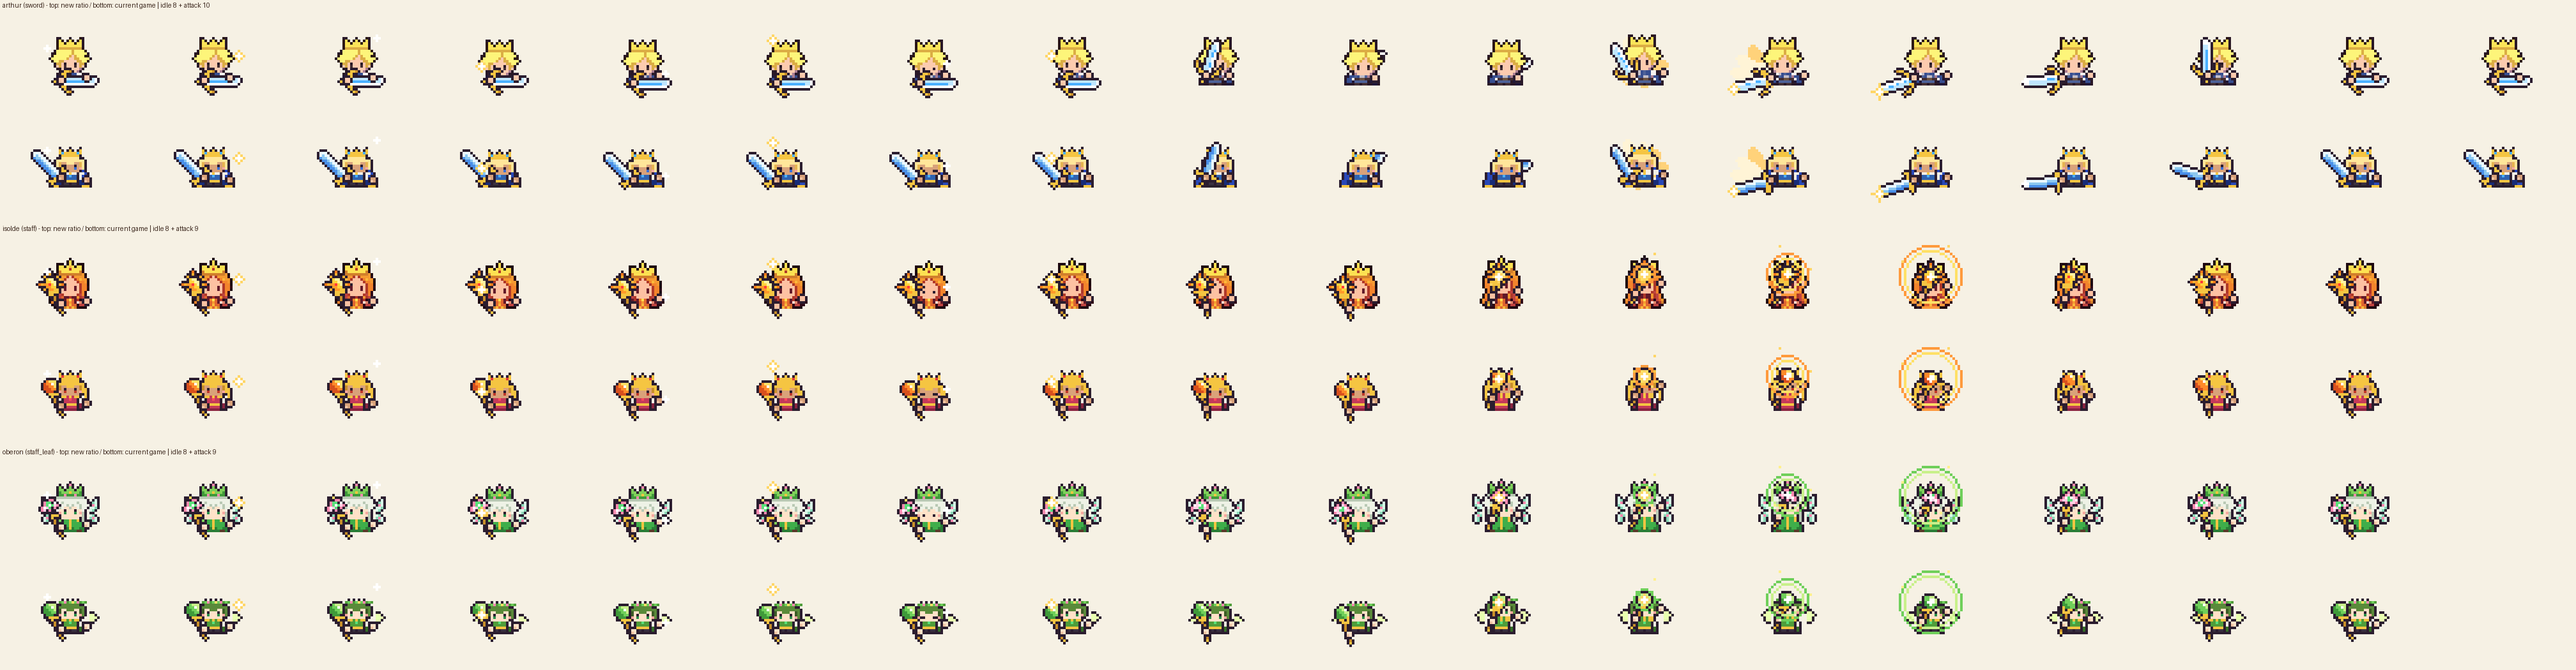
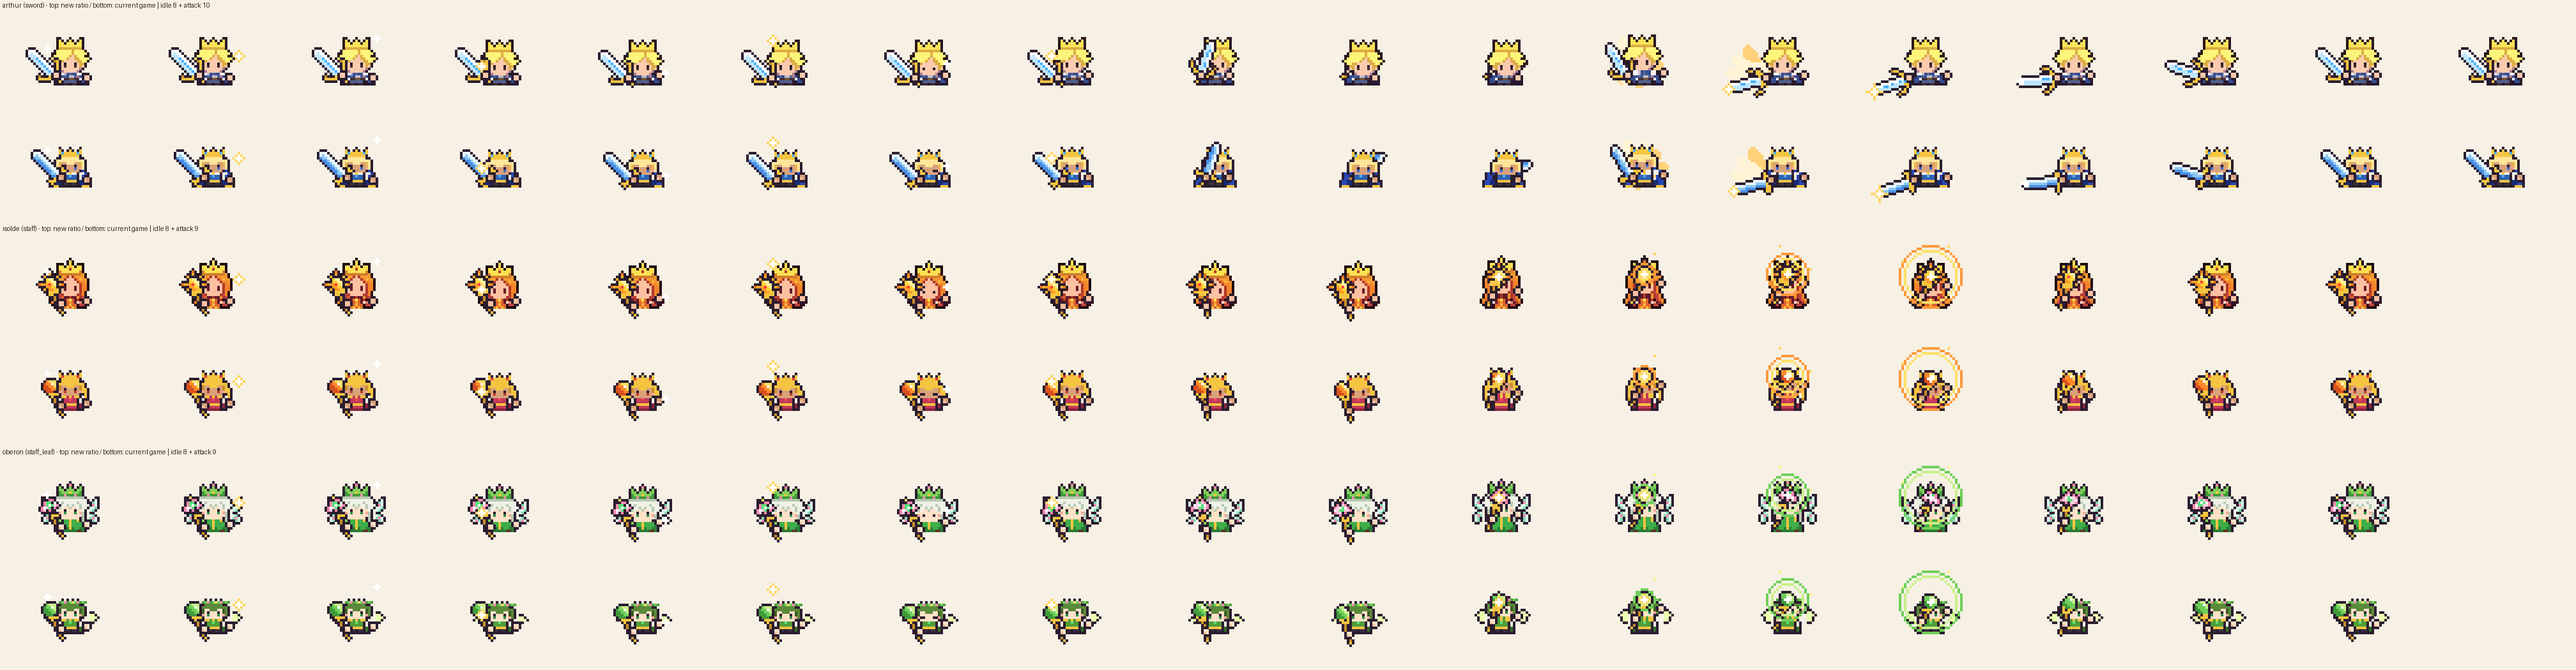
시험 아서: 가로 칼 자세 되돌리고 칼을 바깥쪽으로 2px
Claude-Session: https://claude.ai/code/session_01SZsqwLwV16mDzSvJa73xyD

diff --git a/docs/drafts/pixellab-rule-test/animate_tests.py b/docs/drafts/pixellab-rule-test/animate_tests.py
@@ -24,10 +24,8 @@ orig_body = R.body
 UNIQUE_WPN = {'arthur': 'excalibur', 'isolde': 'sun', 'oberon': 'fairy'}   # 캐릭터 전용 무기 (weapons_v2.py)
 _pick = R.W2.pick_variant
 R.W2.pick_variant = lambda w, look, g, cid: UNIQUE_WPN.get(cid) or _pick(w, look, g, cid)
-# 대기 때 무기 각도를 캐릭터마다 바꾸기 (2026-11-20 사용자 요청: 아서 = 몸 쪽으로 직각으로 눕혀 가로로 듦, 기본은 바깥 45°)
-IDLE_DEG = {'arthur': -90}
-IDLE_DY = {'arthur': 2}   # 가로로 든 칼이 턱·깃을 가리지 않게 손을 2px 내려 허리 높이로
-
+# 무기(쥐는 손)를 캐릭터 바깥쪽으로 옮기기 — 대기·공격 모두 (2026-11-20 사용자 요청: 아서 칼을 약간 바깥으로. 가로로 눕힌 시안은 되돌림)
+WPN_DX = {'arthur': 2}
 
 def run(cid):
     file, skin, female = TESTS[cid]
@@ -37,21 +35,15 @@ def run(cid):
     img.info = {'split': 19, 'eyes': [(9, 15), (13, 15)]}
     pal = {**pal, 'S': skin}
     R.body = lambda _c: (img, pal, 0, female, style)
-    oi, osw, first = A.idle, A.swing, []
-    if cid in IDLE_DEG:
-        deg = IDLE_DEG[cid]
-        def idle_fix(ch, w, hand, **kw):
-            fr = oi(ch, w, (hand[0], hand[1] + IDLE_DY.get(cid, 0)), **{**kw, 'deg': deg})
-            first.append(fr[0])
-            return fr
-        A.idle = idle_fix
-        A.swing = lambda ch, w, hand, idle_deg=0: osw(ch, w, hand, deg)
+    oi, osw = A.idle, A.swing
+    if cid in WPN_DX:   # 그림은 몸을 뒤집어 그린 뒤 다시 뒤집으므로 x 를 키우면 최종 그림에서 바깥(왼쪽)
+        dx = WPN_DX[cid]
+        A.idle = lambda ch, w, hand, **kw: oi(ch, w, (hand[0] + dx, hand[1]), **kw)
+        A.swing = lambda ch, w, hand, idle_deg=0: osw(ch, w, (hand[0] + dx, hand[1]), idle_deg)
     try:
         r = R.animate(c)
     finally:
         R.body, A.idle, A.swing = orig_body, oi, osw
-    if first:   # 공격 마지막 = 대기 자세 (swing 은 -30° 아래를 몸 뒤로 그리므로 대기 첫 프레임 그대로 씀)
-        r['attack'][-2:] = [(first[0][0], ms) for _, ms in r['attack'][-2:]]
     frames = r['idle'] + r['attack']
     R.sheet(frames).save(os.path.join(OUT, f'{cid}.png'))
     return r, frames

diff --git a/docs/drafts/pixellab-rule-test/README.md b/docs/drafts/pixellab-rule-test/README.md
@@ -31,4 +31,4 @@
   - 이졸데 `staff/sun`: 금빛 태양 원반 + 빛살 8개(십자 길게·대각선 짧게) + 가운데 붉은 보석, 금 지팡이대
   - 오베론 `staff_leaf/fairy`: 분홍 꽃잎 나비 날개 머리 + 초록 보석 + 끝 금빛, 지팡이대에 덩굴 잎 (몸 뒤 민트 날개와 구분되게 분홍)
 - 비교 `weapons_compare.png` (전·후 무기 + 새 무기를 든 대기 첫 프레임), 움직임 `anim/<id>.gif`
-- 아서 대기 자세 (2026-11-20 사용자 요청): 칼을 몸 쪽으로 직각으로 눕혀 가로로 듦(대기 각도 -90°, 기본은 바깥 45°) + 칼이 턱·깃을 가리지 않게 손을 2px 내려 허리 높이로. 공격 마지막 두 프레임은 대기 첫 프레임과 같은 자세 (`animate_tests.py` 의 `IDLE_DEG`·`IDLE_DY`)
+- 아서 무기 위치 (2026-11-20 사용자 요청): 칼을 몸 쪽으로 가로로 눕힌 시안은 결과가 좋지 않아 되돌리고, 대기 45° 그대로 쥐는 손을 바깥쪽으로 2px 옮김 — 대기·공격 모두 (`animate_tests.py` 의 `WPN_DX`), 전·후 `anim/arthur_wpn_shift.png`(위 = 이전, 아래 = 지금)

diff --git a/docs/HISTORY.md b/docs/HISTORY.md
@@ -199,3 +199,4 @@
 - 2026-11-20 새 비율 시험 3명(아서·이졸데·오베론)을 지금 애니메이션 규칙 그대로 움직임(`docs/drafts/pixellab-rule-test/animate_tests.py`, 나누는 줄 19)
 - 2026-11-20 시험 3명 전용 무기: 아서 성검(날개 막이·푸른 홈) · 이졸데 태양 지팡이(빛살·붉은 보석) · 오베론 요정 홀(분홍 나비 꽃머리·덩굴) — `weapons_v2.py` 변형 추가, 게임 그림은 그대로
 - 2026-11-20 시험 아서: 대기 때 칼을 몸 쪽으로 직각으로 눕혀 가로로(허리 높이) 듦, 공격 끝 = 같은 자세
+- 2026-11-20 시험 아서: 가로로 눕힌 칼 자세는 되돌리고, 칼(쥐는 손)을 바깥쪽으로 2px 옮김
